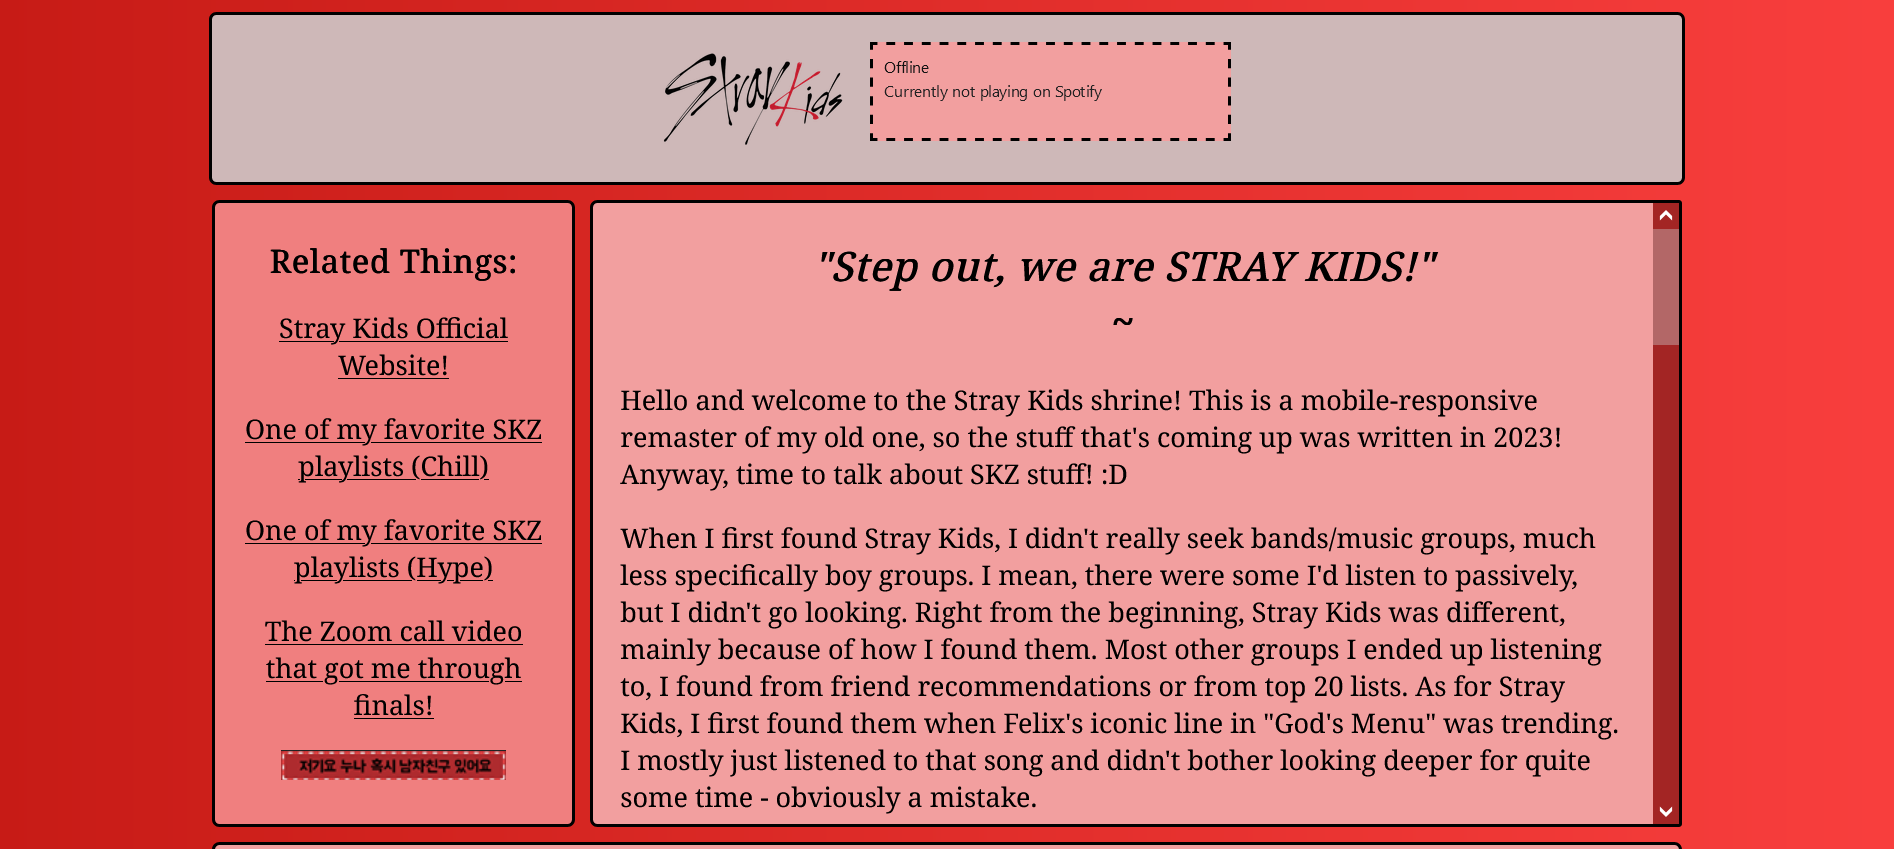
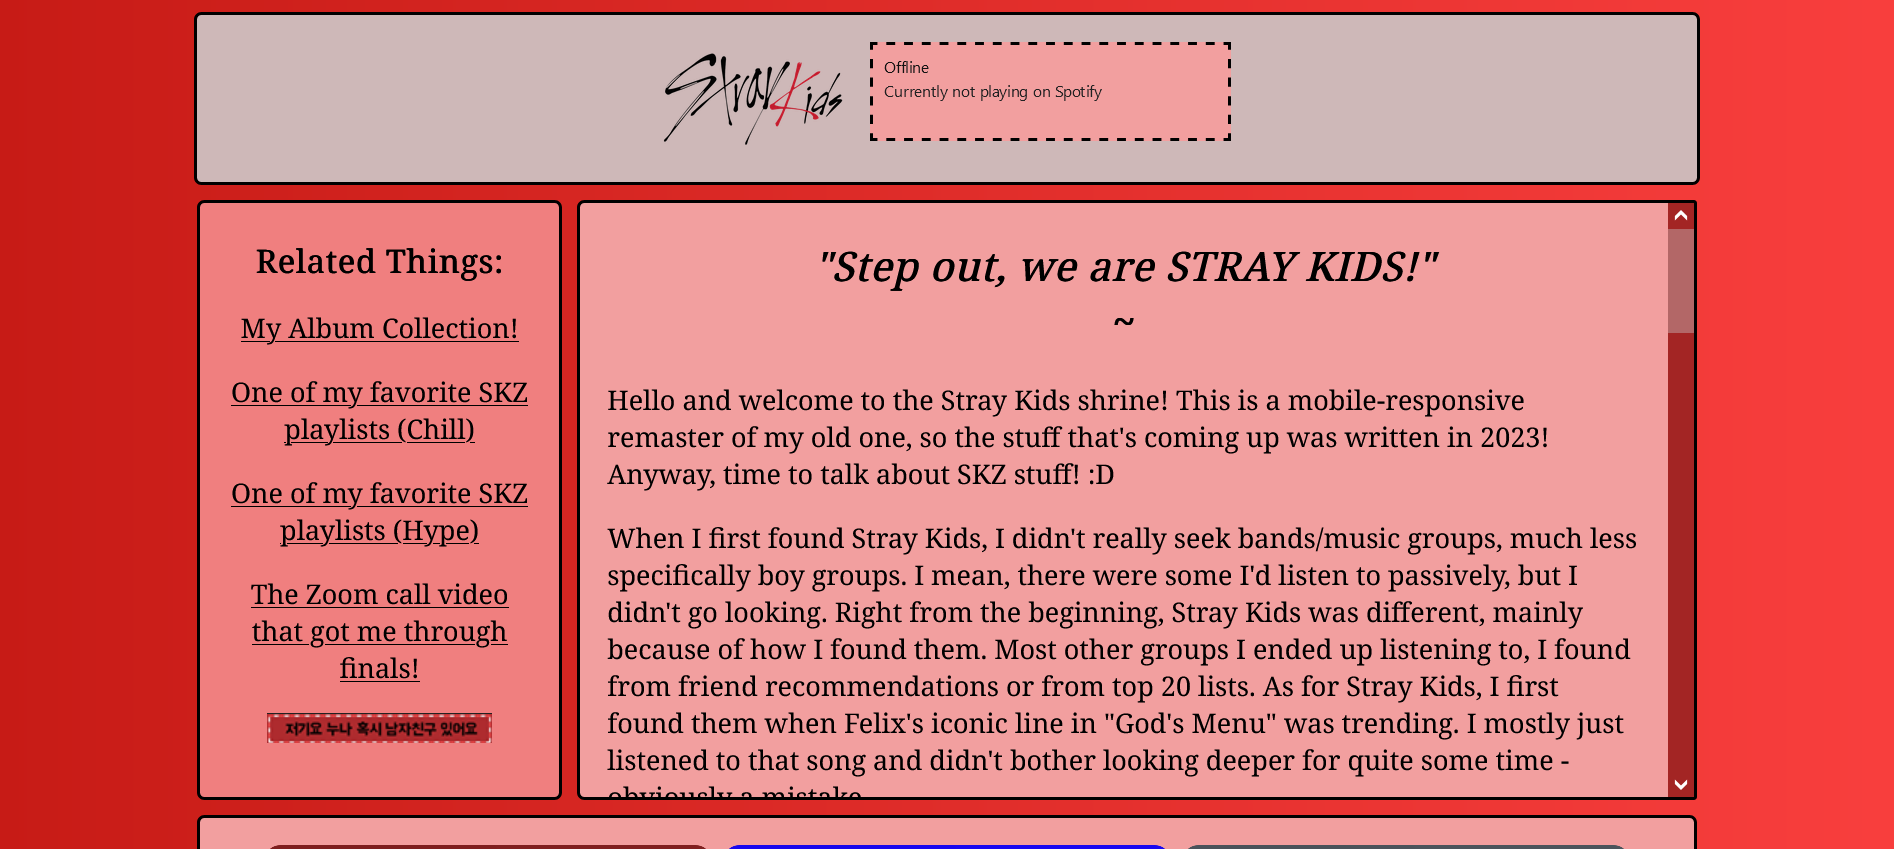
Add files via upload

Changed region(s): [[0.0935, 0.0, 0.9034, 1.0], [0.4361, 0.3062, 0.7476, 0.3369]]

diff --git a/public/shrines/straykids.html b/public/shrines/straykids.html
@@ -74,14 +74,14 @@ body, html {
 /*here we goooooo*/
 #container{
     display: flex;
-    max-width:980px;
+    max-width:1000px;
     text-align:left;
     margin-left:auto;
     margin-right:auto;
     padding-bottom:15px
 }
 header{
-    max-width:944px;
+    max-width:964px;
     margin-left:auto;
     margin-right:auto;
     padding:1rem;
@@ -119,7 +119,7 @@ header{
     border-radius: 5px;
     border: solid 2px black;
     width: 100%;
-    height:21rem;
+    height:20rem;
     font-size: 1rem;
     padding: 1rem;
     margin-left: 10px;
@@ -233,10 +233,10 @@ iframe{
     <div id="container">
         <div id="sidebar">
             <h2>Related Things:</h2>
-            <p><a href="https://straykids.jype.com/" target="_blank">Stray Kids Official Website!</a></p>
+            <p><a href="/collections/albums.html">My Album Collection!</a></p>
             <p><a href="https://www.youtube.com/watch?v=QqCkXVRCdZw" target="_blank">One of my favorite SKZ playlists (Chill)</a></p>
             <p><a href="https://www.youtube.com/watch?v=OdGqUrsVpG0" target="_blank">One of my favorite SKZ playlists (Hype)</a></p>
-            <p><a href="https://youtu.be/UcvqDaXHing" target="_blank">
+            <p><a href="https://www.youtube.com/watch?v=UcvqDaXHing" target="_blank">
             The Zoom call video that got me through finals!</a></p>
             <img class="static" src="/images/shrines/straykids/no-blinking.png" width="150"><img class="active" src="/images/blinkies/jeogiyo-noona.gif">
         </div>

diff --git a/public/source/lockheartlove.html b/public/source/lockheartlove.html
@@ -152,6 +152,9 @@ document.getElementById("myDropdownWebmastery").classList.toggle("show");
                 <div id="myDropdownShrines" class="dropdown-content">
                 <svg class="doc indent"><use xlink:href="#icon-document"></use></svg><a onClick='document.getElementById("codeID").src="https://github-iframe.vercel.app/baileylockheart/lockheartlove/public/shrines/maddsbuckley.html?theme=dracula";'>maddsbuckley.html</a>
                 <br>
+                <svg class="doc indent"><use xlink:href="#icon-document"></use></svg><a onClick='document.getElementById("codeID").src="https://github-iframe.vercel.app/baileylockheart/lockheartlove/public/shrines/straykids.html?theme=dracula";'>straykids.html</a>
+                <br>
+                
                 </div>
             </div>
             <hr>

diff --git a/public/javascript/navbar.js b/public/javascript/navbar.js
@@ -42,7 +42,7 @@ document.getElementById("nav").innerHTML = `
                 <a href="/collections/cliques.html">Cliques</a>
                 <a href="/graphics.html">Graphics</a>
                 <a href="/recs.html">Recs</a>
-                <a href="/source.html">Source Code  <svg><use xlink:href="#icon-link"></use></svg></a>
+                <a href="/source.html" target="_blank">Source Code  <svg><use xlink:href="#icon-link"></use></svg></a>
                 <a href="/collections/themes.html">Themes</a>
                 <a href="/webmastery.html" target="_blank">Webmastery <svg><use xlink:href="#icon-link"></use></svg></a>
             </div>
